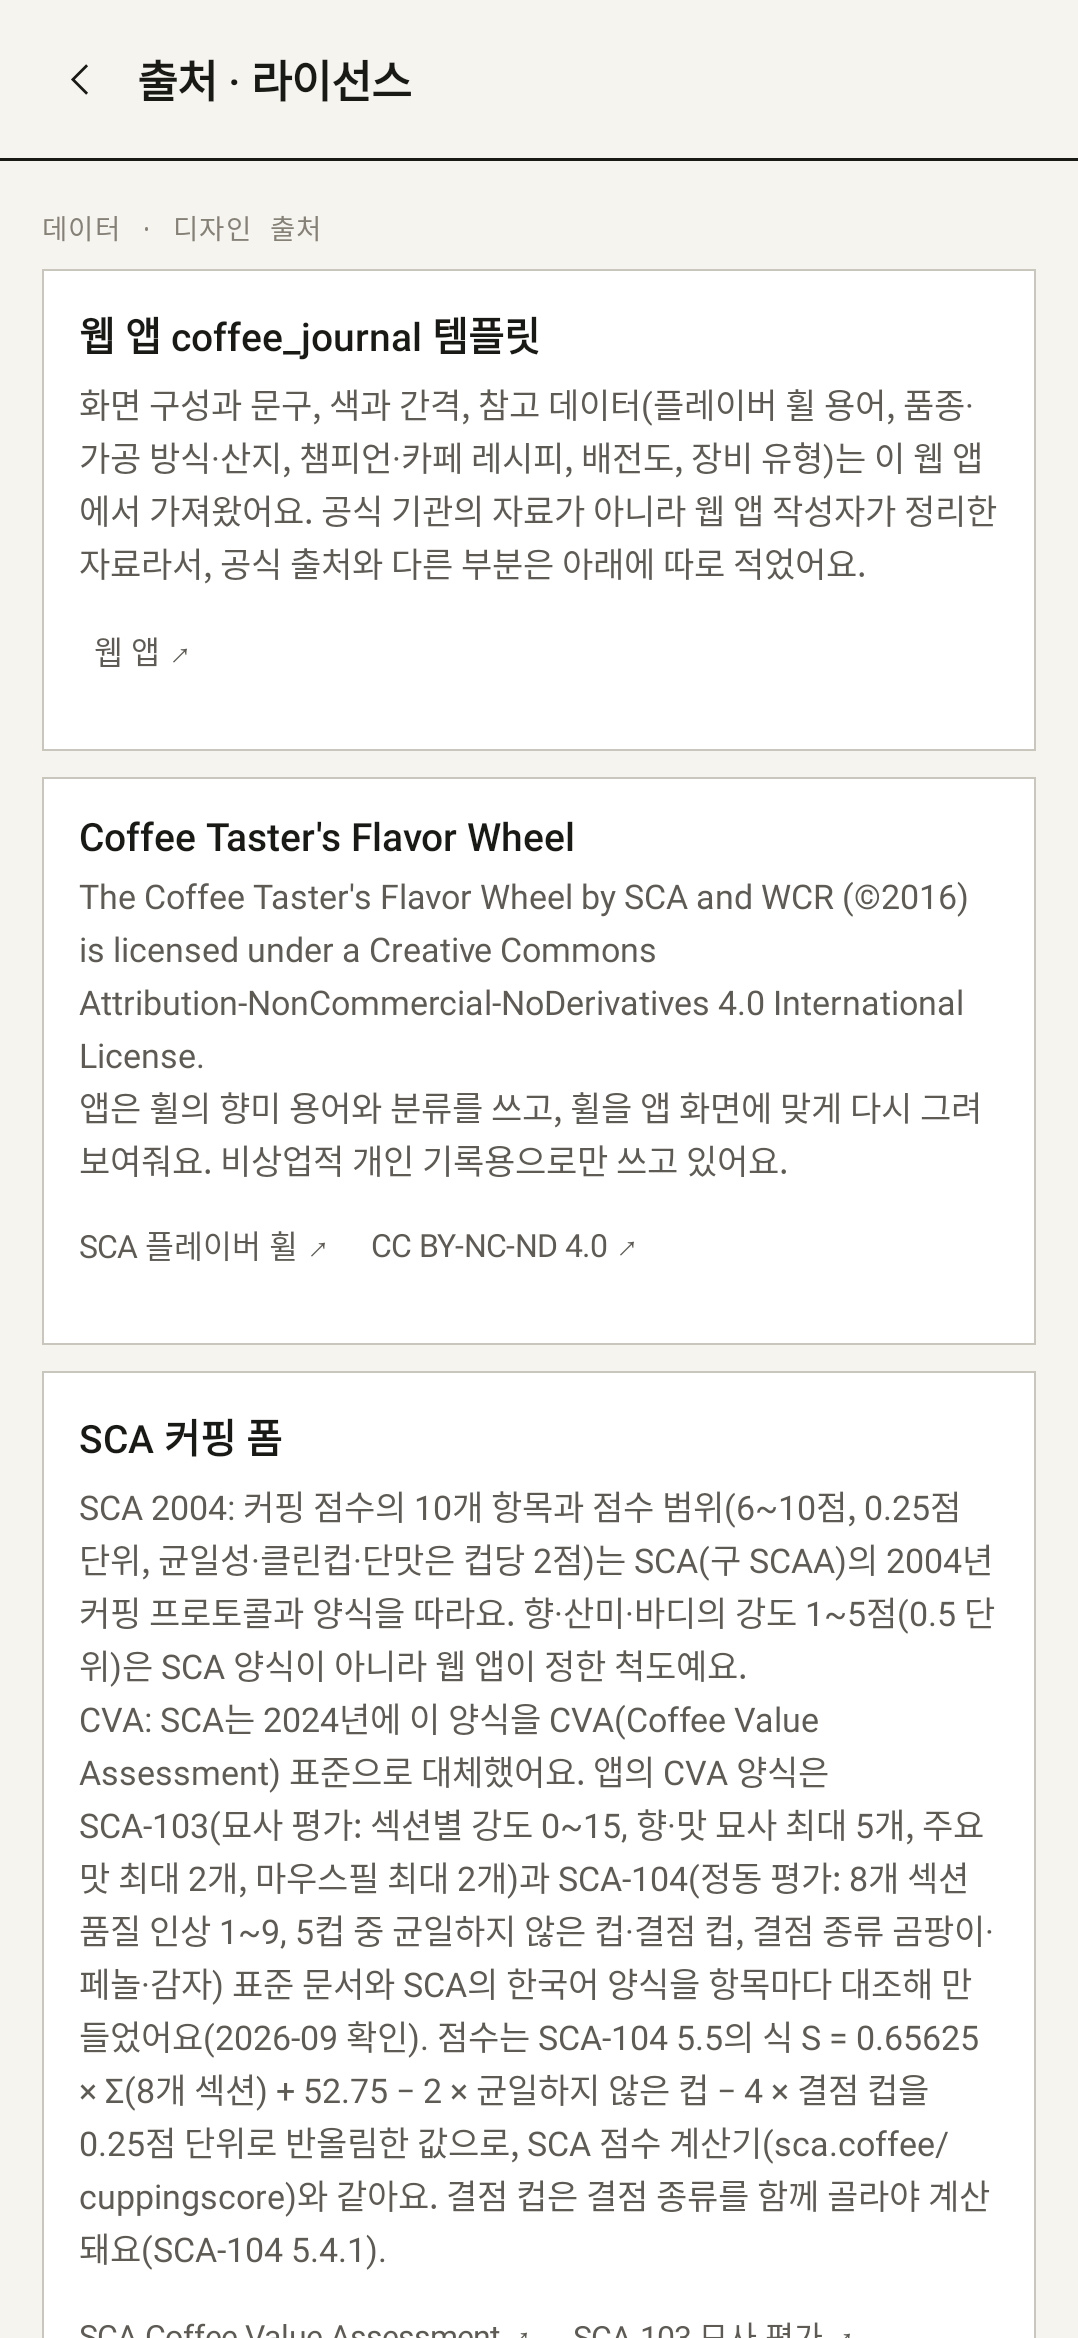
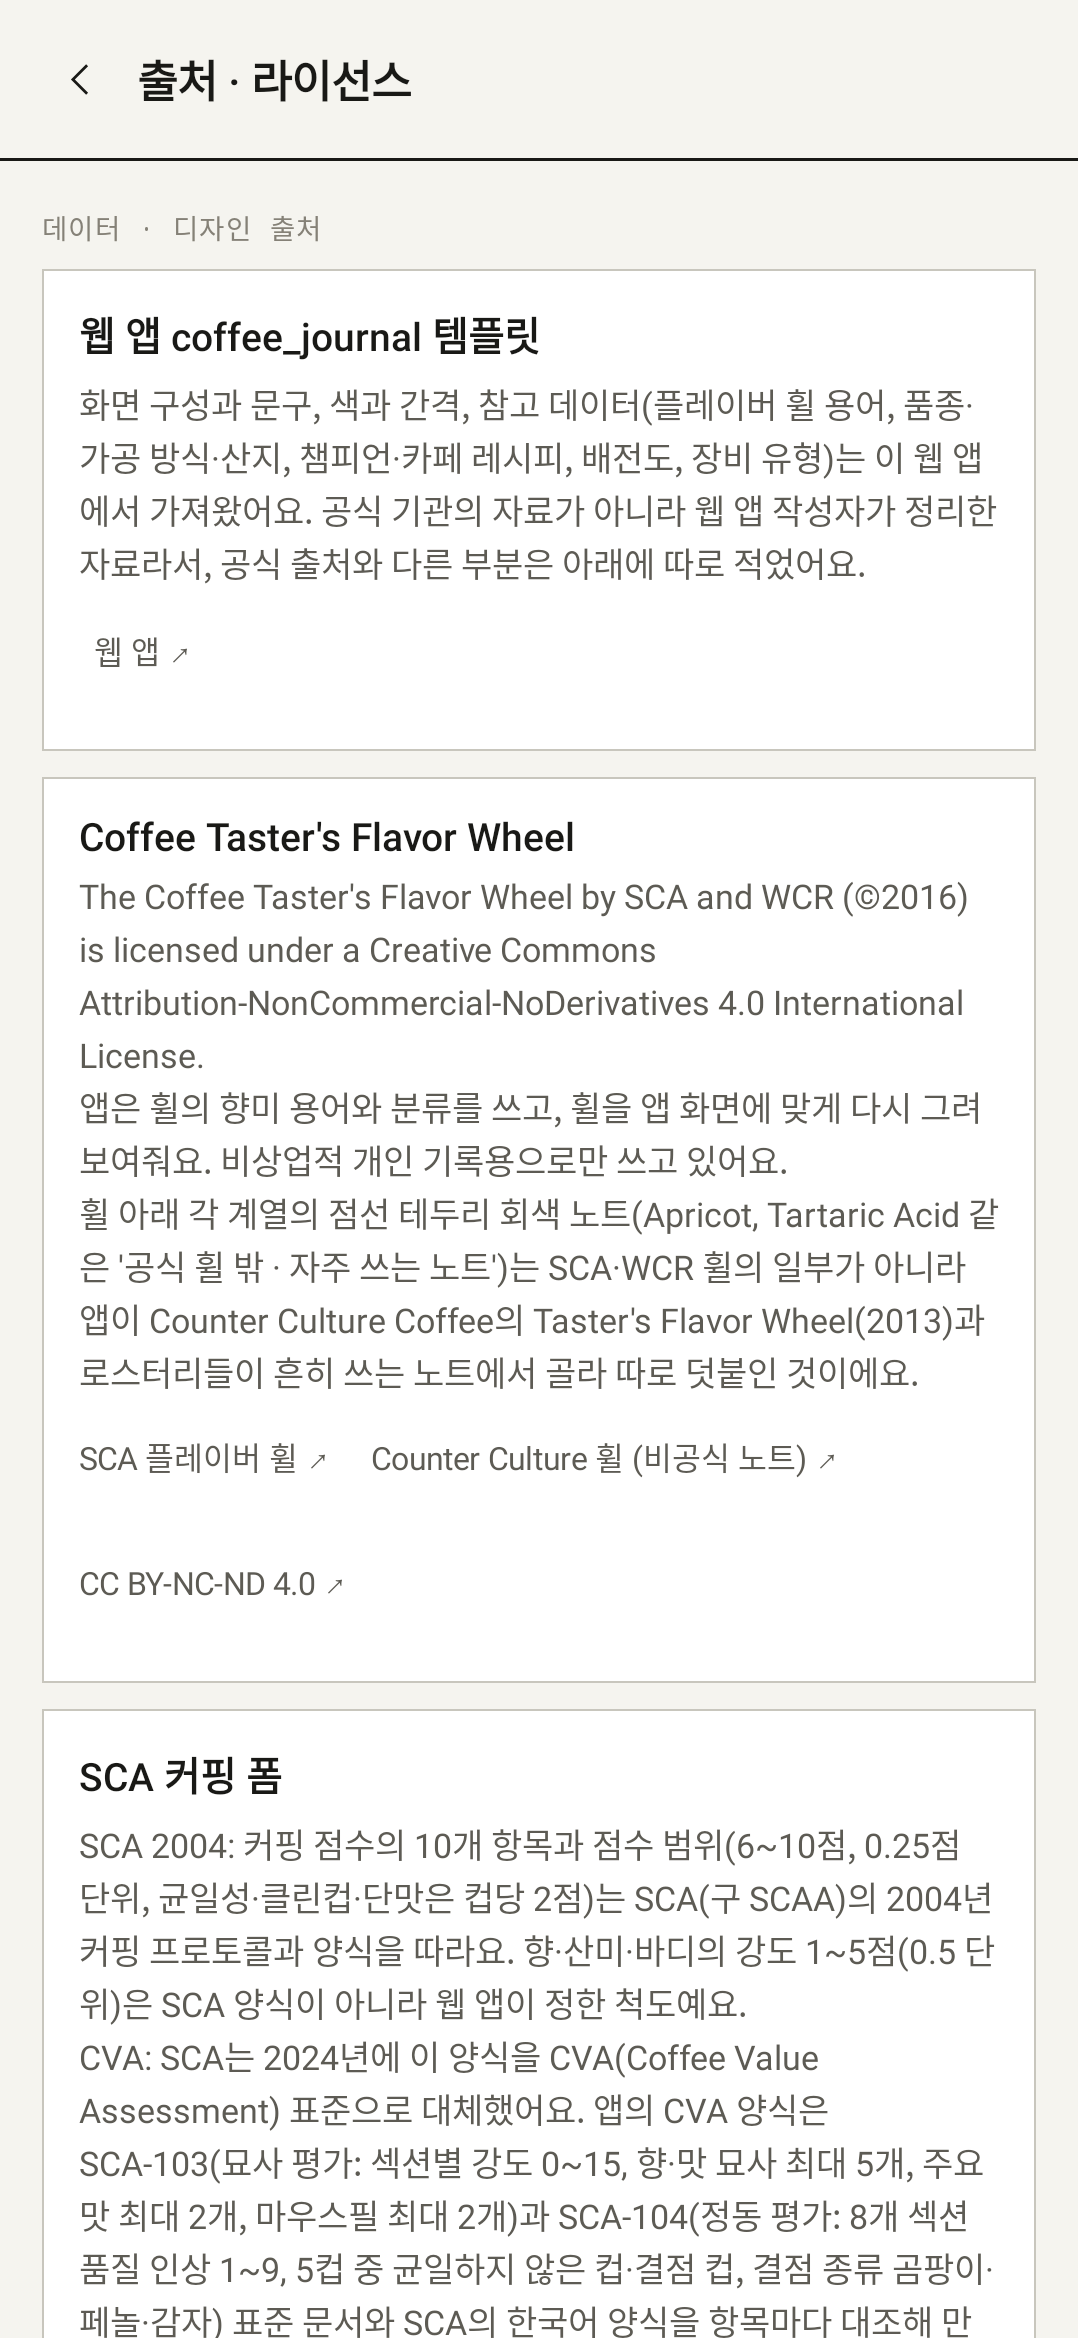
Re-record screenshots; add the zoomed world map screenshot
Claude-Session: https://claude.ai/code/session_018QYnCDu2vDaVkATiKmJbxB

Changed region(s): [[0.0612, 0.4996, 0.9184, 1.0]]

diff --git a/androidApp/src/test/kotlin/com/coffeejournal/android/RouteScreenshotTest.kt b/androidApp/src/test/kotlin/com/coffeejournal/android/RouteScreenshotTest.kt
@@ -1,5 +1,7 @@
 package com.coffeejournal.android
 
+import androidx.compose.ui.geometry.Offset
+import androidx.compose.ui.geometry.Size
 import androidx.compose.ui.semantics.SemanticsActions
 import androidx.compose.ui.semantics.SemanticsProperties
 import androidx.compose.ui.test.SemanticsMatcher
@@ -10,7 +12,6 @@ import androidx.compose.ui.test.hasClickAction
 import androidx.compose.ui.test.hasContentDescription
 import androidx.compose.ui.test.hasSetTextAction
 import androidx.compose.ui.test.hasTestTag
-import androidx.compose.ui.test.performTextInput
 import androidx.compose.ui.test.hasText
 import androidx.compose.ui.test.junit4.createComposeRule
 import androidx.compose.ui.test.onFirst
@@ -18,6 +19,9 @@ import androidx.compose.ui.test.onNodeWithText
 import androidx.compose.ui.test.onRoot
 import androidx.compose.ui.test.performClick
 import androidx.compose.ui.test.performScrollTo
+import androidx.compose.ui.test.performTextInput
+import androidx.compose.ui.test.performTouchInput
+import androidx.compose.ui.test.pinch
 import androidx.navigation.compose.NavHost
 import androidx.navigation.compose.rememberNavController
 import androidx.test.core.app.ApplicationProvider
@@ -30,27 +34,28 @@ import com.coffeejournal.domain.model.Entry
 import com.coffeejournal.domain.model.GeoPoint
 import com.coffeejournal.domain.model.MiscItem
 import com.coffeejournal.domain.model.MiscType
-import com.coffeejournal.domain.model.Scope
 import com.coffeejournal.domain.model.RecipeRef
+import com.coffeejournal.domain.model.Scope
 import com.coffeejournal.domain.reference.CafeRecipes
+import com.coffeejournal.domain.rules.Dates
 import com.coffeejournal.domain.rules.MapLinks
-import com.coffeejournal.ui.guide.GuideTexts
-import com.coffeejournal.ui.guide.KeyHowTos
-import com.github.takahirom.roborazzi.captureScreenRoboImage
+import com.coffeejournal.domain.rules.ReminderKind
 import com.coffeejournal.ui.ai.AiErrors
 import com.coffeejournal.ui.ai.AiKeySlot
 import com.coffeejournal.ui.ai.AiProvider
 import com.coffeejournal.ui.ai.AiTexts
+import com.coffeejournal.ui.bean.b.WorldMapGeometry
 import com.coffeejournal.ui.form.timer.BrewClock
 import com.coffeejournal.ui.form.timer.BrewTimerResult
+import com.coffeejournal.ui.guide.GuideTexts
+import com.coffeejournal.ui.guide.KeyHowTos
 import com.coffeejournal.ui.map.MapPickTarget
+import com.coffeejournal.ui.map.WorldProjection
 import com.coffeejournal.ui.map.detail.DetailMapCamera
 import com.coffeejournal.ui.map.search.LocateResult
 import com.coffeejournal.ui.map.search.LocateTexts
 import com.coffeejournal.ui.map.search.PlaceSearchService
 import com.coffeejournal.ui.map.search.PlaceSearchTexts
-import com.coffeejournal.domain.rules.Dates
-import com.coffeejournal.domain.rules.ReminderKind
 import com.coffeejournal.ui.nav.FormMode
 import com.coffeejournal.ui.nav.Route
 import com.coffeejournal.ui.nav.appGraph
@@ -65,6 +70,7 @@ import com.coffeejournal.ui.theme.DisplaySettings
 import com.coffeejournal.ui.theme.NumberFont
 import com.coffeejournal.ui.theme.TextSize
 import com.github.takahirom.roborazzi.captureRoboImage
+import com.github.takahirom.roborazzi.captureScreenRoboImage
 import kotlinx.coroutines.runBlocking
 import kotlinx.datetime.LocalDate
 import org.junit.Before
@@ -148,6 +154,20 @@ class RouteScreenshotTest {
     }
     @Test fun bean_map() = show(Route.Bean, "37-bean-map.png") {
         compose.onNode(hasText("커피 지도 + 농장(생산자)") and hasClickAction()).assertIsSelected().assertIsDisplayed()
+    }
+    /** Pinched in about 10× on Central America: the regions of the bean form's lists appear as dots, none on another. */
+    @Test fun bean_mapZoomed() = show(Route.Bean, "87-bean-map-zoomed.png") {
+        val map = compose.onNode(hasContentDescription("커피 지도.", substring = true))
+        val n = map.fetchSemanticsNode()
+        val size = Size(n.size.width.toFloat(), n.size.height.toFloat())
+        // Antigua, Guatemala on the fitted map, in the map node's px
+        val m = WorldMapGeometry.fitScale(size.width, size.height)
+        val c = WorldMapGeometry.toCanvas(WorldProjection.toView(14.56, -90.73).let { Offset(it.x.toFloat(), it.y.toFloat()) }, m, Offset(size.width / 2f, size.height / 2f))
+        repeat(3) {
+            map.performTouchInput { pinch(c - Offset(100f, 0f), c - Offset(250f, 0f), c + Offset(100f, 0f), c + Offset(250f, 0f), durationMillis = 500) }
+            settle()
+        }
+        compose.onNode(hasText("전체 보기") and hasClickAction()).assertIsDisplayed()
     }
     @Test fun bean_roastery() = show(Route.Bean, "38-bean-roastery.png") { beanView("로스터리", "한국 로스터리 지도") }
     /** Roasteries and a café with positions (and one found by its 지역 text), for the map screenshots. */
